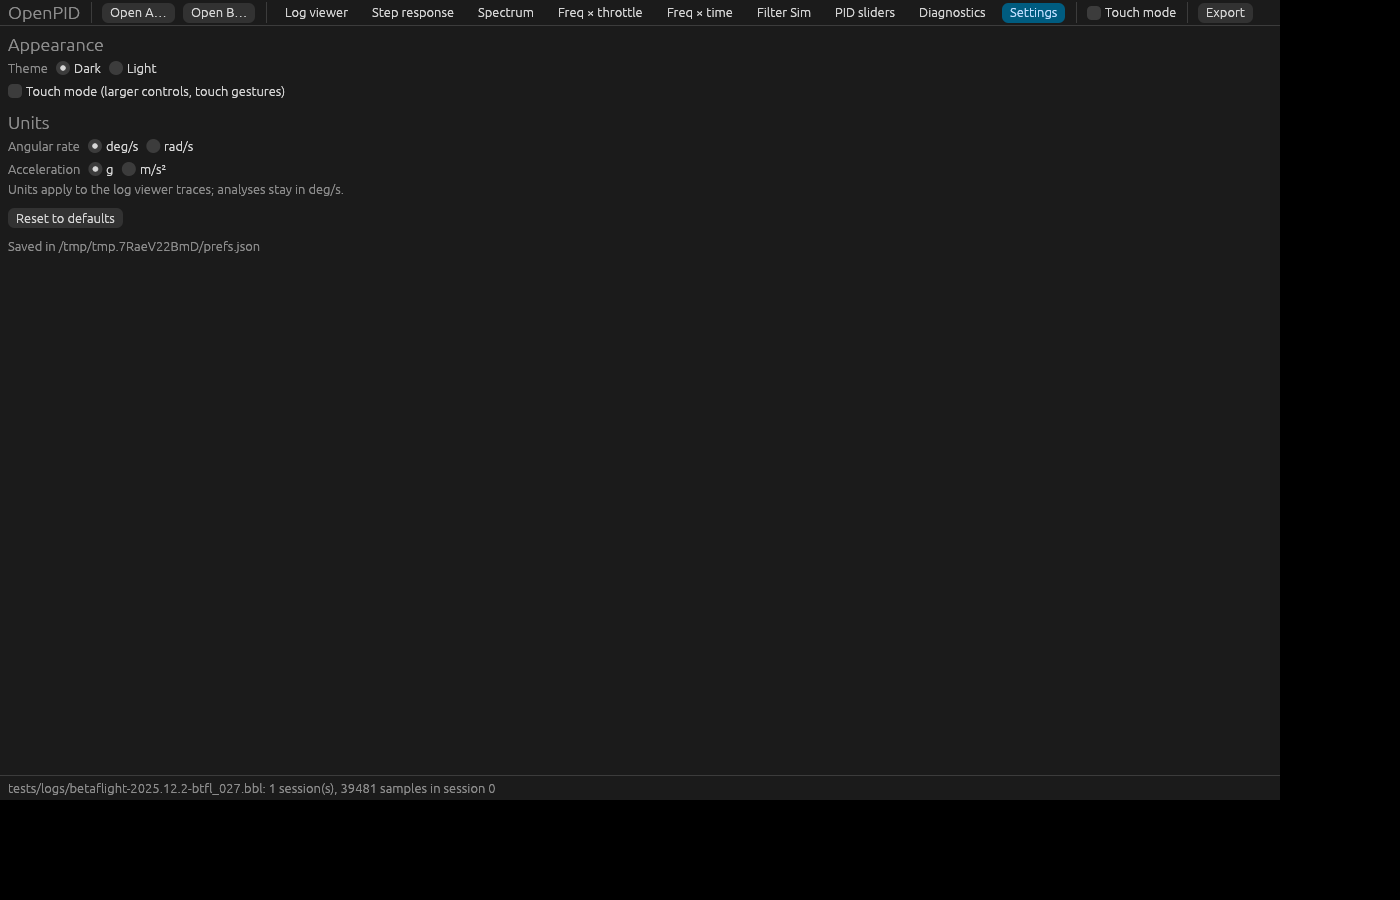
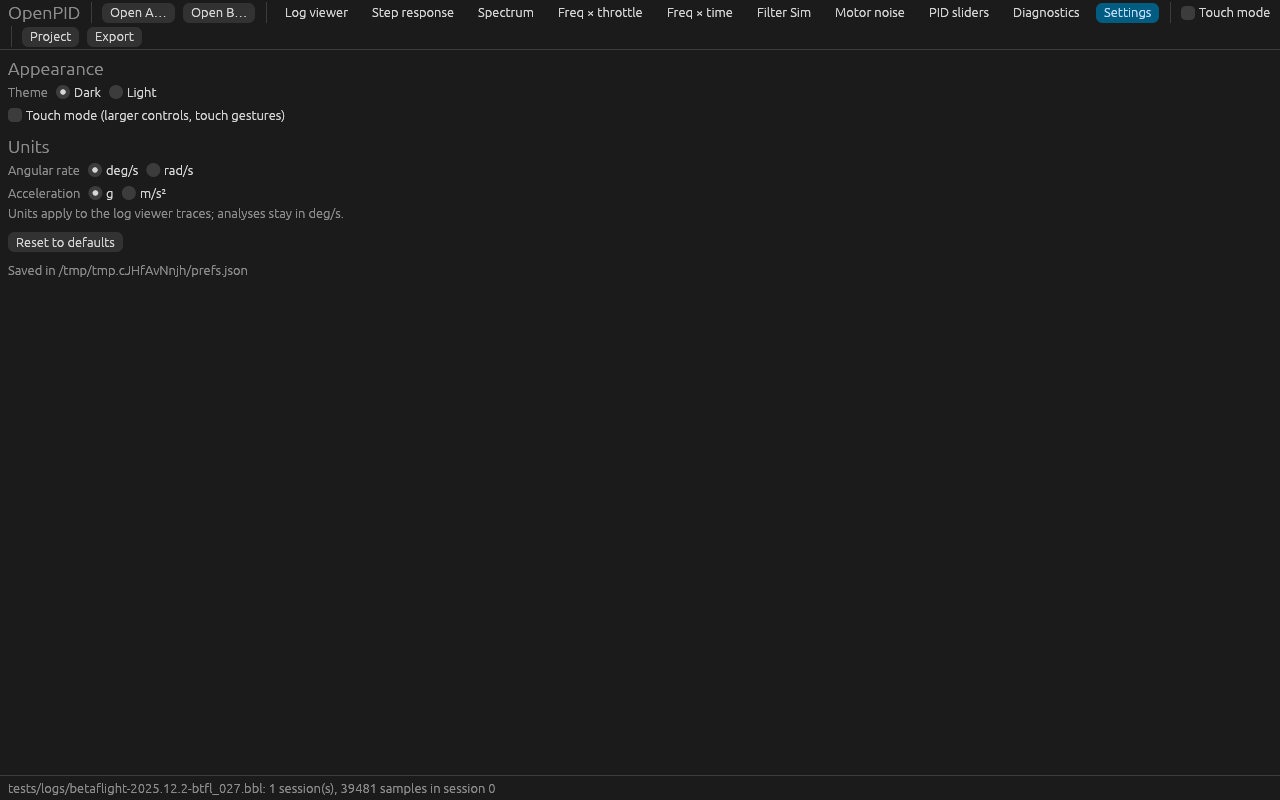
docs: user guide for every tab, A/B, projects, export and CLI; screenshots regenerated
docs/USER-GUIDE.md (UA) follows the §7.3 workflow: opening logs and
sessions, the log viewer (channels, cursor, epoch dragging, units), step
response with every parameter and how to read the metrics, spectrum with
peaks and markers, freq × throttle with the segment bar and RPM overlay,
freq × time, Filter Sim with the what-if editor and the fit line, motor
noise, rpm without eRPM, PID sliders, Diagnostics and Settings, A/B,
projects and export, a CLI equivalence table and a troubleshooting
table. tools/screenshots.sh takes one PNG per tab on Xvfb with
ImageMagick from the 2025.12 fixture (10 screenshots, 1280 × 800); the
README links the guide and shows Filter Sim and Motor noise.

Closes #38

Claude-Session: https://claude.ai/code/session_01RZdhNYUUBFBWTKFmkkfBUM

Changed region(s): [[0.0, 0.0, 1.0, 1.0]]

diff --git a/README.md b/README.md
@@ -42,9 +42,14 @@ cargo build --release
 cargo run --release -p openpid-app                # або ./target/release/openpid-gui [logA] [logB]
 ```
 
+Повний опис кожної вкладки, параметрів і робочого процесу A/B — у
+[посібнику користувача](docs/USER-GUIDE.md).
+
 ![Log viewer](docs/screenshots/log.png)
 ![Step response](docs/screenshots/step.png)
 ![Freq × throttle](docs/screenshots/throttle.png)
+![Filter Sim](docs/screenshots/filter.png)
+![Motor noise](docs/screenshots/motors.png)
 ![PID sliders](docs/screenshots/sliders.png)
 
 Файли відкриваються кнопками «Open A…/Open B…» або перетягуванням у вікно. У Log viewer клік/тап по графіку ставить курсор, кнопки «start = cursor»/«end = cursor» задають епоху аналізу; масштабування — колесо/pinch, панорамування — перетягування. Усі обчислення виконуються у фоновому потоці, результати кешуються за параметрами.
